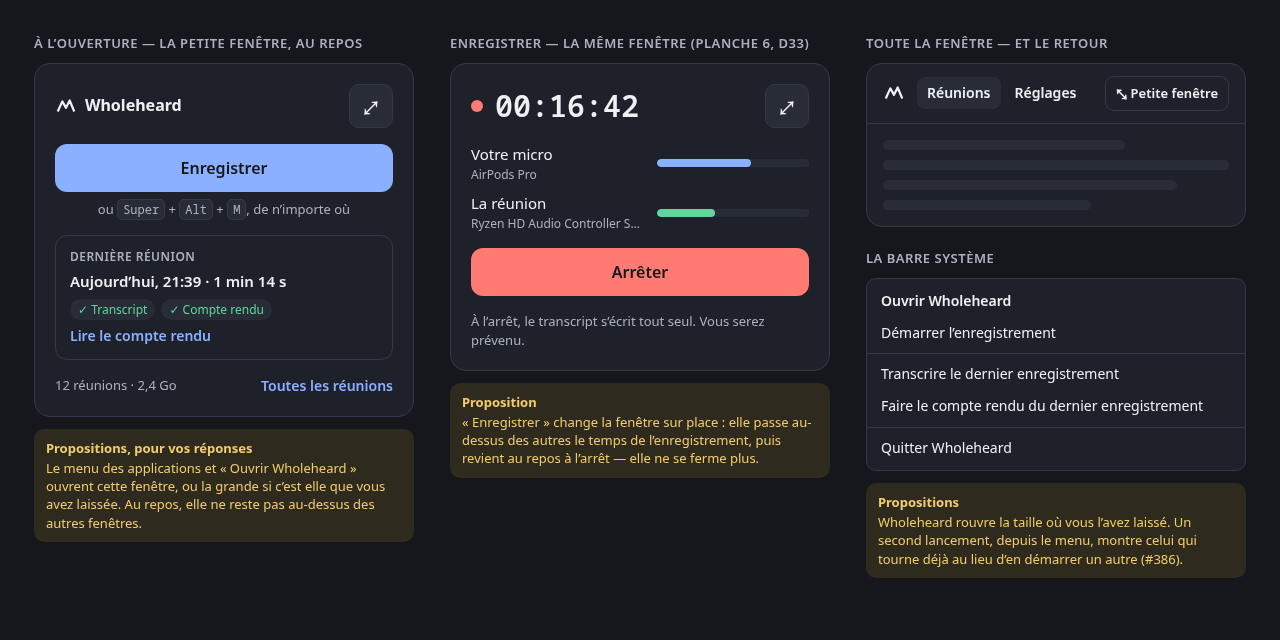
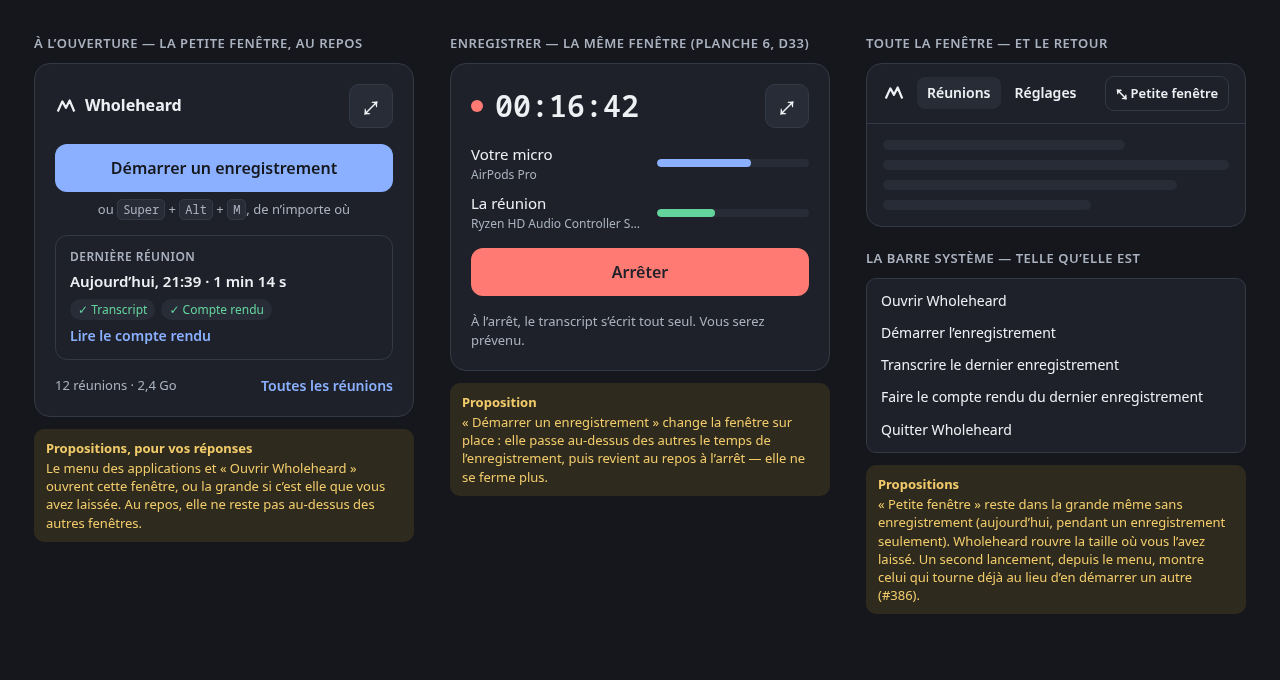
D34 drawing: the product's words where it has them, the new ones said; Arrêter as built; the tray as built; what is not drawn
Agent-Session: wh-d34-draw

diff --git a/docs/project/drawings/d34-the-small-window-at-rest/board.html b/docs/project/drawings/d34-the-small-window-at-rest/board.html
@@ -26,7 +26,7 @@
   .brand svg { width: 22px; height: 22px; }
   .icon { width: 44px; height: 44px; border-radius: 10px; border: 1px solid var(--line); background: var(--raised); display: grid; place-items: center; color: var(--ink); font-size: 18px; }
   .primary { display: block; width: 100%; padding: 13px; border: 0; border-radius: 12px; background: var(--accent); color: var(--on-accent); font: 600 16px system-ui, sans-serif; text-align: center; }
-  .danger { background: var(--red); color: #15171C; }
+  .danger { background: var(--red); color: var(--surface); }
   .hint { margin: -8px 0 0; text-align: center; color: var(--soft); font-size: 13px; }
   kbd { font: 12px ui-monospace, monospace; padding: 1px 5px; border: 1px solid var(--line); border-radius: 5px; background: var(--raised); }
   .last { border: 1px solid var(--line); border-radius: 12px; padding: 12px 14px; display: flex; flex-direction: column; gap: 6px; }
@@ -73,7 +73,7 @@
         <div class="brand"><svg viewBox="0 0 24 24"><path d="M3 18 L8 7 L12 14 L16 6 L21 18" fill="none" stroke="currentColor" stroke-width="2.4" stroke-linejoin="round"/></svg>Wholeheard</div>
         <div class="icon" title="Toute la fenêtre">⤢</div>
       </div>
-      <div class="primary">Enregistrer</div>
+      <div class="primary">Démarrer un enregistrement</div>
       <p class="hint">ou <kbd>Super</kbd> + <kbd>Alt</kbd> + <kbd>M</kbd>, de n’importe où</p>
       <div class="last">
         <span class="label">Dernière réunion</span>
@@ -103,7 +103,7 @@
       <p class="hint" style="margin:0;text-align:left">À l’arrêt, le transcript s’écrit tout seul. Vous serez prévenu.</p>
     </div>
     <div class="note"><b>Proposition</b>
-      « Enregistrer » change la fenêtre sur place : elle passe au-dessus des autres le temps de l’enregistrement, puis revient au repos à l’arrêt — elle ne se ferme plus.</div>
+      « Démarrer un enregistrement » change la fenêtre sur place : elle passe au-dessus des autres le temps de l’enregistrement, puis revient au repos à l’arrêt — elle ne se ferme plus.</div>
   </section>
 
   <section>
@@ -116,18 +116,16 @@
       </div>
       <div class="page"><div class="line" style="width:70%"></div><div class="line"></div><div class="line" style="width:85%"></div><div class="line" style="width:60%"></div></div>
     </div>
-    <h2 style="margin-top:22px">La barre système</h2>
+    <h2 style="margin-top:22px">La barre système — telle qu’elle est</h2>
     <div class="tray">
-      <div class="em">Ouvrir Wholeheard</div>
+      <div>Ouvrir Wholeheard</div>
       <div>Démarrer l’enregistrement</div>
-      <hr>
       <div>Transcrire le dernier enregistrement</div>
       <div>Faire le compte rendu du dernier enregistrement</div>
-      <hr>
       <div>Quitter Wholeheard</div>
     </div>
     <div class="note"><b>Propositions</b>
-      Wholeheard rouvre la taille où vous l’avez laissé. Un second lancement, depuis le menu, montre celui qui tourne déjà au lieu d’en démarrer un autre (#386).</div>
+      « Petite fenêtre » reste dans la grande même sans enregistrement (aujourd’hui, pendant un enregistrement seulement). Wholeheard rouvre la taille où vous l’avez laissé. Un second lancement, depuis le menu, montre celui qui tourne déjà au lieu d’en démarrer un autre (#386).</div>
   </section>
 </div>
 </body>

diff --git a/docs/project/drawings/d34-the-small-window-at-rest/README.md b/docs/project/drawings/d34-the-small-window-at-rest/README.md
@@ -5,20 +5,26 @@
 to date. What the decider accepts becomes the criteria of the deliverable that builds it; once
 built, the window and its screenshots are the truth. A new round is a new folder.
 
-The words on the board are the product's, in French. The yellow notes are the framer's proposals
-for the section's open questions — the decider's to answer, beside each.
+The words on the board are the product's, in French, where the product has them (`modules/shell/src/words.rs`);
+the new ones are proposals: *Dernière réunion*, *Lire le compte rendu*, *Toutes les réunions*, the
+shortcut's hint. The yellow notes are the framer's proposals for the section's open questions —
+the decider's to answer, beside each.
 
 | # | Board | What the user sees, and can do |
 |---|---|---|
-| 1 | [The small window at rest](1-small-window-at-rest-light.png) · [dark](1-small-window-at-rest-dark.png) | At opening: *Enregistrer* and the shortcut; the last meeting, where it stands, *Lire le compte rendu*; what the meetings weigh, *Toutes les réunions*; *Toute la fenêtre*. Recording: the same window, board 6 as built (D33), above the others until the stop. The full window's way back, *Petite fenêtre*; the tray's menu as it is |
+| 1 | [The small window at rest](1-small-window-at-rest-light.png) · [dark](1-small-window-at-rest-dark.png) | At opening: *Démarrer un enregistrement* and the shortcut; the last meeting, where it stands, *Lire le compte rendu*; what the meetings weigh, *Toutes les réunions*; *Toute la fenêtre*. Recording: the same window, board 6 as built (D33), above the others until the stop. The full window's way back, *Petite fenêtre*, shown at rest too (a proposal: today it shows while recording only); the tray's menu as built |
 
 | Open question (cycle 03, D34) | The framer's proposal on the board | The decider's answer |
 |---|---|---|
 | A compact window first, the full window behind it? | Yes: the board | owed |
 | Which gestures open it small? | The applications' menu and *Ouvrir Wholeheard*; the shortcut still records | owed |
 | Is the size remembered? | Yes: opened as it was left, small or full | owed |
-| What it holds at rest? | *Enregistrer* and the shortcut, the last meeting and where it stands, what the meetings weigh | owed |
+| What it holds at rest? | *Démarrer un enregistrement* and the shortcut, the last meeting and where it stands, what the meetings weigh | owed |
 | Does it stay above the other windows? | Not at rest; while recording, as board 6 | owed |
+
+Not drawn in this round, for the next if the decider keeps the board: the small window with no
+meeting yet; the last meeting still being transcribed or summarised, or failed; no shortcut
+granted by the desktop (the hint then says so, as Settings do).
 
 A second start brings the running Wholeheard forward instead of starting another (#386) — a cost
 of the build, drawn here as the menu's gesture.
